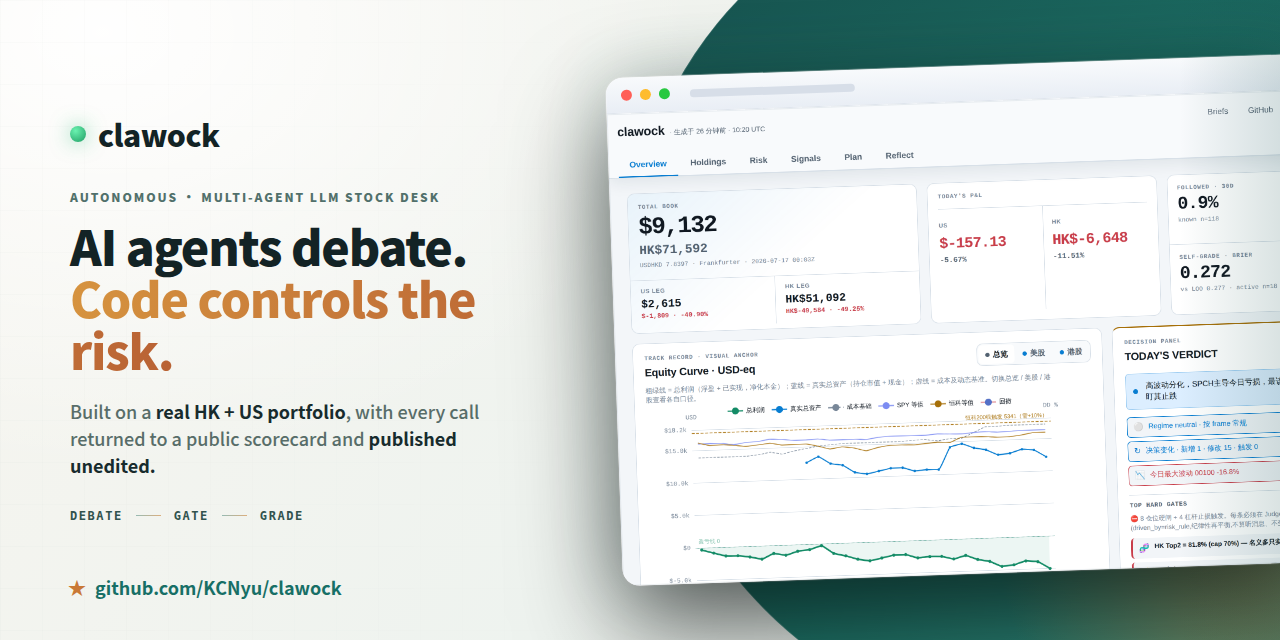
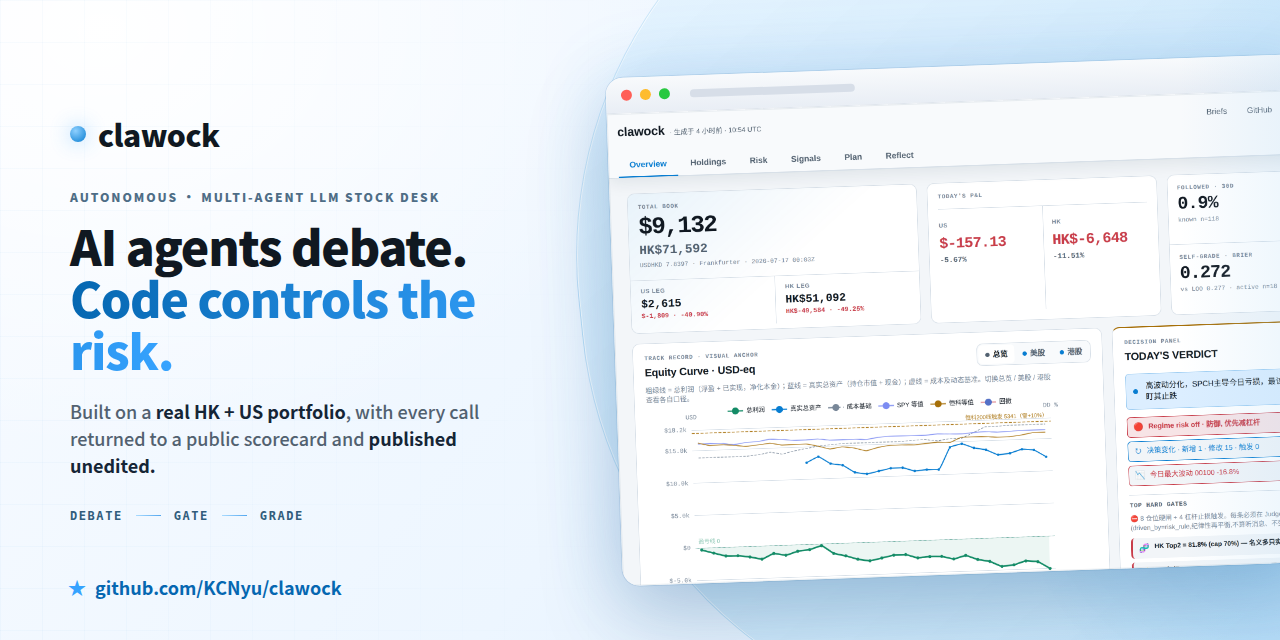
docs: align README visuals with dashboard blue (#10)

diff --git a/scripts/data/shoot_dashboard.js b/scripts/data/shoot_dashboard.js
@@ -13,7 +13,7 @@
  *
  * Outputs:
  *   assets/shadow-backtest.png   v2 cumulative win-rate chart (all / active / 50% ref)
- *   assets/social-card.png       1280x640 light editorial card + fresh Hero dashboard
+ *   assets/social-card.png       1280x640 light-blue dashboard card + fresh Hero dashboard
  *   assets/dashboard.gif         manual dispatch only; built from FRAME_DIR
  *   TMP_DIR/dashboard-preview.png  focused light Hero crop embedded into the social card
  *   .gifframes/f{0..5}.png       per-tab mobile frames → assemble_dashboard_gif.py
@@ -68,7 +68,7 @@ async function settle(page) {
 }
 
 // Retained only as an earlier code-native fallback; socialCardHTML() below owns
-// the current light editorial card and embeds the live UI directly.
+// the current light-blue dashboard card and embeds the live UI directly.
 function legacyCardHTML(shotDataUri) {
   void shotDataUri;
   return `<!doctype html><html><head><meta charset="utf-8"><style>
@@ -187,59 +187,60 @@ function socialCardHTML(shotDataUri) {
   body {
     font-family:-apple-system,"Segoe UI","Helvetica Neue","Noto Sans CJK SC",sans-serif;
     background:
-      radial-gradient(65% 95% at 8% 5%,rgba(255,255,255,.96),transparent 72%),
-      linear-gradient(128deg,#f7f5ef 0%,#eef3ef 58%,#e3ece7 100%);
-    color:#132325; display:flex; align-items:center; position:relative;
+      radial-gradient(62% 92% at 8% 5%,rgba(255,255,255,.98),transparent 72%),
+      linear-gradient(128deg,#f8fbff 0%,#edf6ff 55%,#dceeff 100%);
+    color:#101821; display:flex; align-items:center; position:relative;
   }
   body::before {
-    content:""; position:absolute; inset:0; opacity:.12; pointer-events:none;
+    content:""; position:absolute; inset:0; opacity:.34; pointer-events:none;
     background-image:
-      linear-gradient(rgba(69,104,98,.16) 1px,transparent 1px),
-      linear-gradient(90deg,rgba(69,104,98,.16) 1px,transparent 1px);
+      linear-gradient(rgba(8,125,209,.09) 1px,transparent 1px),
+      linear-gradient(90deg,rgba(8,125,209,.09) 1px,transparent 1px);
     background-size:42px 42px;
     mask-image:linear-gradient(90deg,#000,transparent 52%);
   }
   body::after {
-    content:""; position:absolute; z-index:0; right:-150px; top:-112px;
-    width:800px; height:850px; border-radius:46% 0 0 54%;
-    transform:rotate(-4deg);
+    content:""; position:absolute; z-index:0; right:-180px; top:-178px;
+    width:880px; height:900px; border-radius:48%;
+    transform:rotate(-6deg);
     background:
-      radial-gradient(circle at 78% 78%,rgba(224,145,71,.54),transparent 30%),
-      linear-gradient(145deg,#174f4c 0%,#1e7469 58%,#3d8977 100%);
-    box-shadow:inset 1px 0 rgba(255,255,255,.16);
+      radial-gradient(circle at 76% 74%,rgba(112,190,244,.42),transparent 28%),
+      linear-gradient(145deg,rgba(231,245,255,.82),rgba(187,222,247,.92));
+    border:1px solid rgba(8,125,209,.10);
+    box-shadow:inset 1px 0 rgba(255,255,255,.72);
   }
   .left { width:560px; padding:58px 0 64px 70px; flex:none; z-index:3; }
   .brand { display:flex; align-items:center; gap:12px; margin-bottom:32px; }
   .brand .dot { width:16px; height:16px; border-radius:50%;
-    background:radial-gradient(circle at 35% 30%,#6af2b0,#1f9d63);
-    box-shadow:0 0 20px rgba(47,189,122,.58); }
+    background:radial-gradient(circle at 35% 30%,#8ed0ff,#087dd1);
+    box-shadow:0 0 20px rgba(54,163,255,.44); }
   .brand .name { font-size:30px; font-weight:800; letter-spacing:-.5px; }
-  .eyebrow { margin-bottom:15px; color:#51706b; font-size:12px; font-weight:800;
+  .eyebrow { margin-bottom:15px; color:#4e6d86; font-size:12px; font-weight:800;
     letter-spacing:.16em; }
   h1 { font-size:48px; line-height:1.08; font-weight:800; letter-spacing:-1.25px;
     margin-bottom:22px; max-width:500px; }
   h1 .hl {
-    color:#c97835;
-    background:linear-gradient(90deg,#d6933f,#b96234);
+    color:#087dd1;
+    background:linear-gradient(90deg,#0567b1,#36a3ff);
     -webkit-background-clip:text; background-clip:text; -webkit-text-fill-color:transparent;
   }
-  .sub { font-size:18px; line-height:1.5; color:#586d69; font-weight:520; max-width:440px; }
-  .sub b { color:#172b2d; font-weight:750; }
+  .sub { font-size:18px; line-height:1.5; color:#526170; font-weight:520; max-width:440px; }
+  .sub b { color:#152536; font-weight:750; }
   .proof { display:flex; align-items:center; gap:13px; margin-top:31px;
-    color:#31534e; font:800 12px/1 ui-monospace,SFMono-Regular,Menlo,monospace;
+    color:#315d7c; font:800 12px/1 ui-monospace,SFMono-Regular,Menlo,monospace;
     letter-spacing:.13em; }
-  .proof i { width:25px; height:1px; background:linear-gradient(90deg,#72a49c,#d39352);
+  .proof i { width:25px; height:1px; background:linear-gradient(90deg,#8ed0ff,#1687e8);
     opacity:.72; }
   .repo { position:absolute; left:68px; bottom:40px; font-size:18px; font-weight:700;
-    color:#176f66; display:flex; align-items:center; gap:9px; }
-  .repo .star { color:#c97835; }
+    color:#0567b1; display:flex; align-items:center; gap:9px; }
+  .repo .star { color:#36a3ff; }
   .shot {
     position:absolute; right:-34px; top:50%; transform:translateY(-50%) rotate(-2deg);
     width:700px; height:508px; border-radius:17px; overflow:hidden;
     box-shadow:
-      0 42px 100px rgba(0,0,0,.62),
-      0 0 0 1px rgba(255,255,255,.36),
-      0 0 72px rgba(35,104,94,.20);
+      0 34px 80px rgba(35,79,115,.25),
+      0 0 0 1px rgba(82,141,187,.18),
+      0 0 72px rgba(54,163,255,.18);
     background:#fff; z-index:2;
   }
   .shot .bar { height:36px; background:linear-gradient(180deg,#f8fafc,#e9eef5);
@@ -255,7 +256,7 @@ function socialCardHTML(shotDataUri) {
   .shot::after { content:""; position:absolute; inset:36px 0 0; pointer-events:none;
     box-shadow:inset 0 0 0 1px rgba(30,63,95,.08); }
   .fade { position:absolute; right:0; top:0; bottom:0; width:100px; z-index:4;
-    background:linear-gradient(90deg,rgba(23,79,76,0),rgba(23,79,76,.16)); pointer-events:none; }
+    background:linear-gradient(90deg,rgba(220,238,255,0),rgba(166,211,244,.18)); pointer-events:none; }
 </style></head><body>
   <div class="left">
     <div class="brand"><span class="dot"></span><span class="name">clawock</span></div>
@@ -297,9 +298,8 @@ function socialCardHTML(shotDataUri) {
     await shadow.screenshot({ path: `${OUT_DIR}/shadow-backtest.png` });
     await desk.close();
 
-    // 2) Social card: restore the original launch composition — light editorial
-    //    copy, a restrained petrol/amber contrast field, and a real light dashboard
-    //    in a visibly tilted browser window.
+    // 2) Social card: match the dashboard's light theme — pale-blue gradient,
+    //    dashboard-blue accents, and a real light dashboard in a tilted browser.
     const socialDesk = await browser.newContext({
       viewport: { width: 1200, height: 760 },
       deviceScaleFactor: 2,

diff --git a/README.md b/README.md
@@ -4,9 +4,9 @@
 
 ### Multi-agent LLMs debate a **real HK + US stock portfolio**. Code controls the risk.
 
-[![Dashboard](https://img.shields.io/github/deployments/KCNyu/clawock/github-pages?label=DASHBOARD&style=flat-square&logo=githubpages&logoColor=white&labelColor=173f3b&color=2a8c78)](https://kcnyu.github.io/clawock/)
-[![CI](https://img.shields.io/github/actions/workflow/status/KCNyu/clawock/harness-regression.yml?label=CI&style=flat-square&logo=githubactions&logoColor=white&labelColor=173f3b&color=2a8c78)](https://github.com/KCNyu/clawock/actions/workflows/harness-regression.yml)
-[![License](https://img.shields.io/badge/LICENSE-MIT-c97835?style=flat-square&labelColor=173f3b)](LICENSE)
+[![Dashboard](https://img.shields.io/github/deployments/KCNyu/clawock/github-pages?label=DASHBOARD&style=flat-square&logo=githubpages&logoColor=white&labelColor=0b5688&color=36a3ff)](https://kcnyu.github.io/clawock/)
+[![CI](https://img.shields.io/github/actions/workflow/status/KCNyu/clawock/harness-regression.yml?label=CI&style=flat-square&logo=githubactions&logoColor=white&labelColor=0b5688&color=5b91e8)](https://github.com/KCNyu/clawock/actions/workflows/harness-regression.yml)
+[![License](https://img.shields.io/badge/LICENSE-MIT-8ed0ff?style=flat-square&labelColor=0b5688)](LICENSE)
 
 [**🎯 Live Dashboard**](https://kcnyu.github.io/clawock/) · [**📅 Daily Briefs**](https://kcnyu.github.io/clawock/briefs.html) · [**How it works ↓**](#-the-60-second-version)
 

diff --git a/README.zh.md b/README.zh.md
@@ -4,9 +4,9 @@
 
 ### 多个 LLM Agent 分析一个**真实港股 + 美股组合**，风控由代码执行。
 
-[![Dashboard](https://img.shields.io/github/deployments/KCNyu/clawock/github-pages?label=DASHBOARD&style=flat-square&logo=githubpages&logoColor=white&labelColor=173f3b&color=2a8c78)](https://kcnyu.github.io/clawock/)
-[![CI](https://img.shields.io/github/actions/workflow/status/KCNyu/clawock/harness-regression.yml?label=CI&style=flat-square&logo=githubactions&logoColor=white&labelColor=173f3b&color=2a8c78)](https://github.com/KCNyu/clawock/actions/workflows/harness-regression.yml)
-[![License](https://img.shields.io/badge/LICENSE-MIT-c97835?style=flat-square&labelColor=173f3b)](LICENSE)
+[![Dashboard](https://img.shields.io/github/deployments/KCNyu/clawock/github-pages?label=DASHBOARD&style=flat-square&logo=githubpages&logoColor=white&labelColor=0b5688&color=36a3ff)](https://kcnyu.github.io/clawock/)
+[![CI](https://img.shields.io/github/actions/workflow/status/KCNyu/clawock/harness-regression.yml?label=CI&style=flat-square&logo=githubactions&logoColor=white&labelColor=0b5688&color=5b91e8)](https://github.com/KCNyu/clawock/actions/workflows/harness-regression.yml)
+[![License](https://img.shields.io/badge/LICENSE-MIT-8ed0ff?style=flat-square&labelColor=0b5688)](LICENSE)
 
 [**🎯 实时仪表盘**](https://kcnyu.github.io/clawock/) · [**📅 每日简报**](https://kcnyu.github.io/clawock/briefs.html) · [**它怎么跑的 ↓**](#-60-秒看懂)
 
